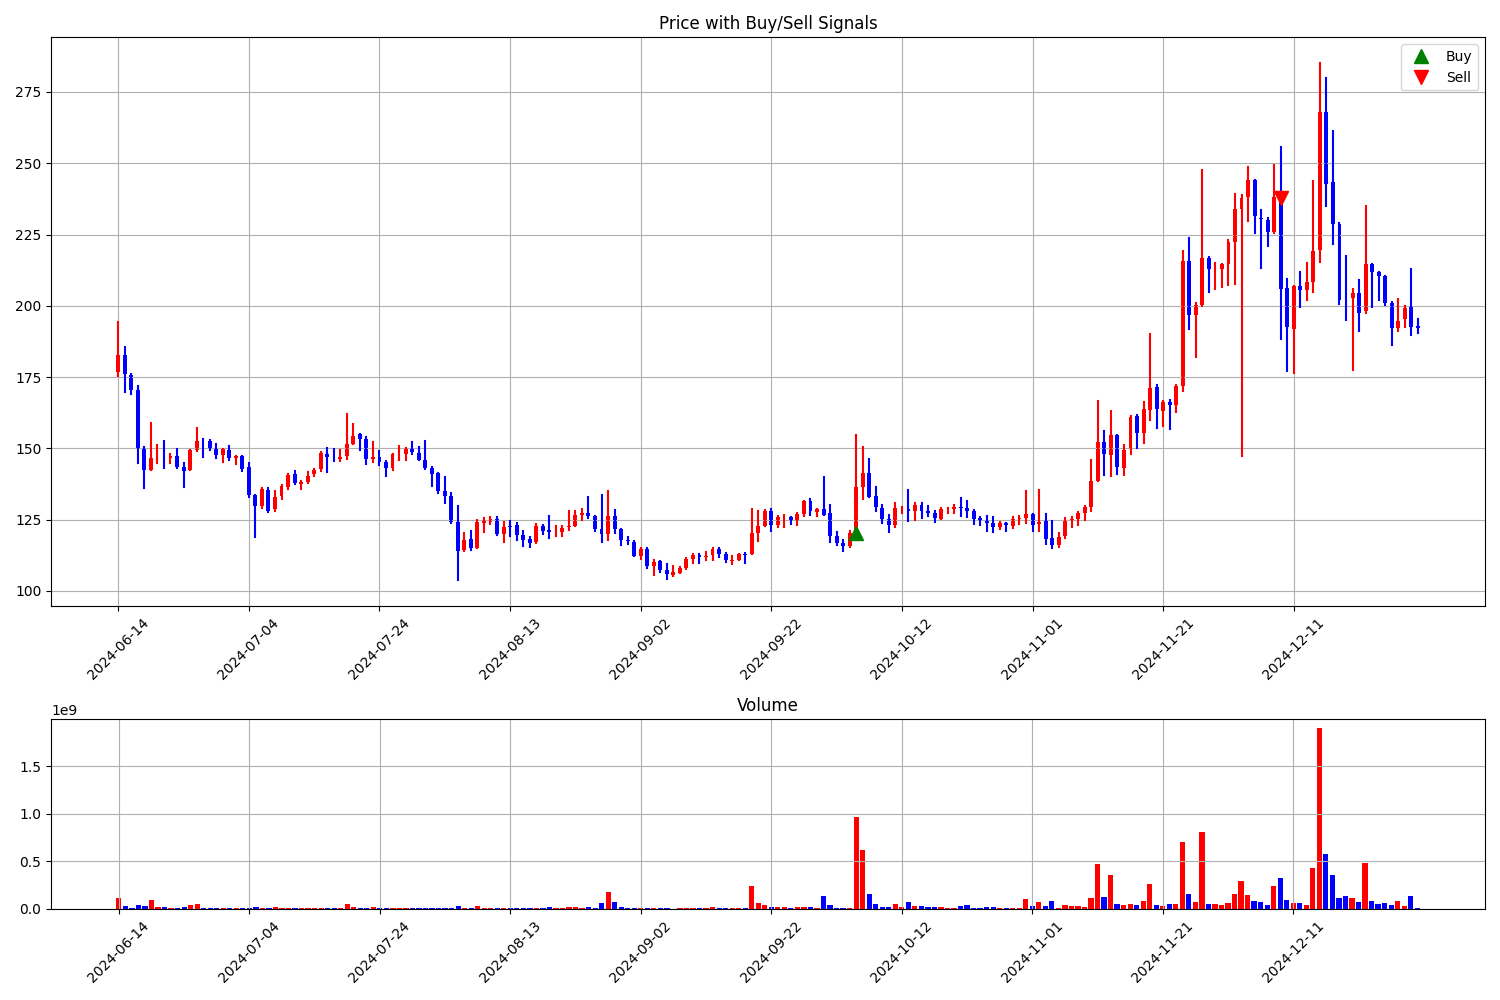
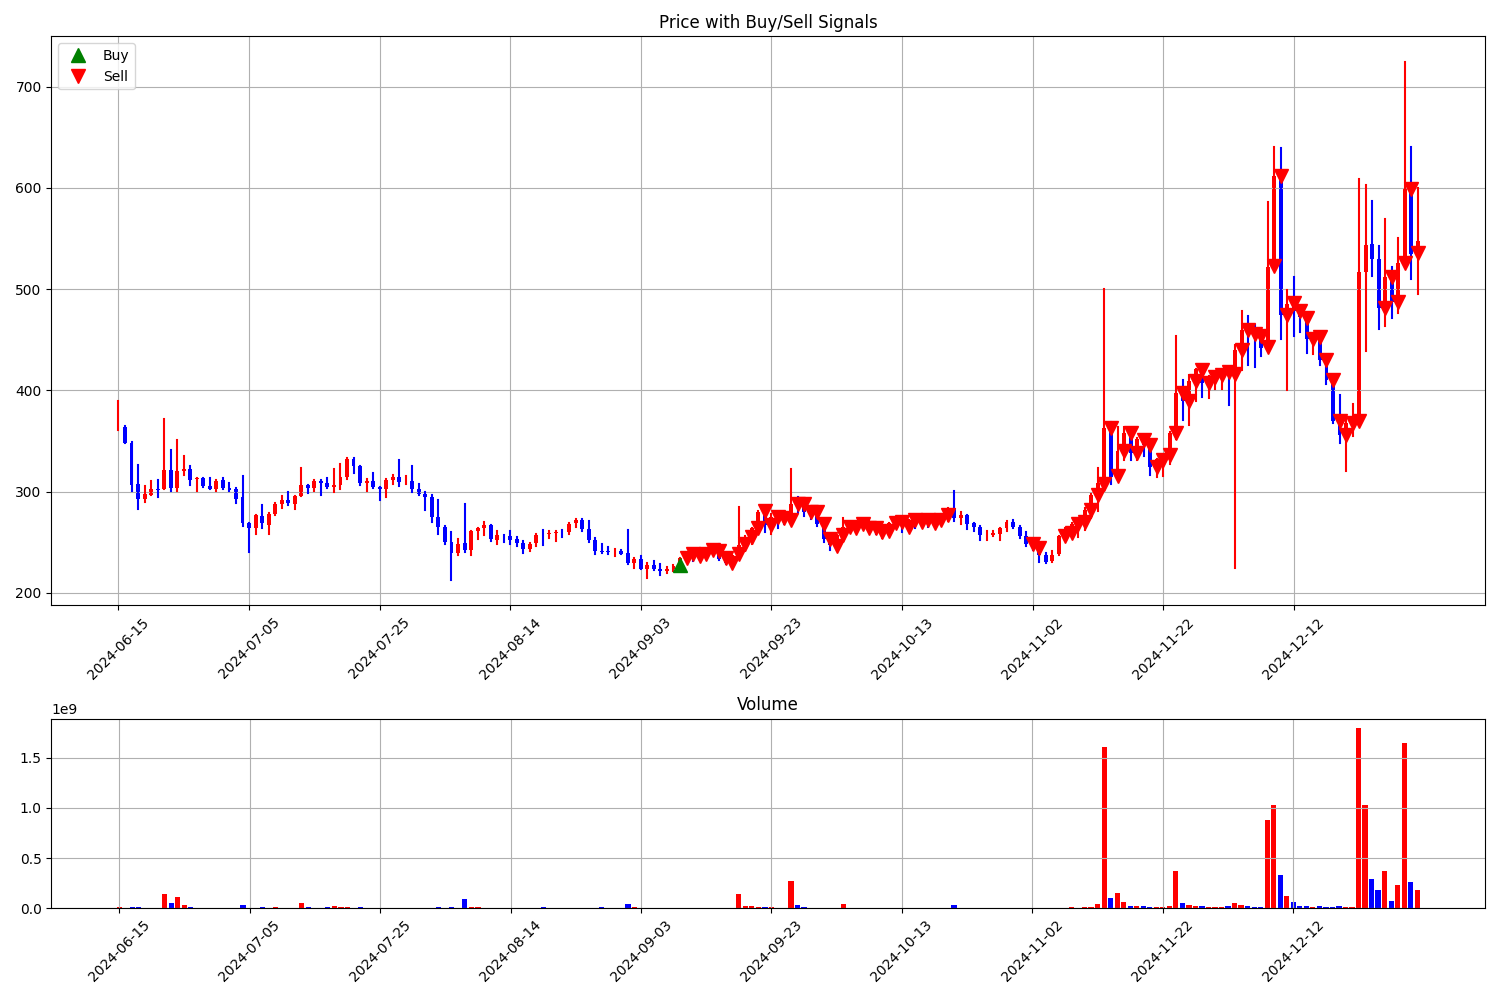
feat: working..

diff --git a/src/strategy/strategies/profitable_strategy.py b/src/strategy/strategies/profitable_strategy.py
@@ -6,7 +6,15 @@ import numpy as np
 import talib
 
 from src.models.types.types import TradingSignal
-from src.strategy.strategies.helpers.custom_percent_sizer import StrategyBasePercent
+from src.strategy.strategies.datas.data import (
+    EntryPosition,
+    MarketData,
+    RiskParams,
+    RiskPosition,
+    TradingAnalyzeData,
+    TradingPercent,
+)
+from src.strategy.strategies.risk.risk_manager import RiskManager
 
 """
 Profitable Strategy 조건
@@ -42,23 +50,8 @@ class TradingParameters:
     stoch_overbought: int = 80  # 과매수 기준값
 
     # 손절/익절 파라미터
-    stop_loss_pct: float = 2.0  # 진입가 기준 손절 비율 (%)
-    take_profit_pct: float = 4.0  # 진입가 기준 익절 비율 (%)
-    trailing_stop_pct: float = 1.5  # 최고가 대비 하락 시 청산 비율 (%)
-
-
-@dataclass
-class MarketData:
-    close: np.ndarray
-    high: np.ndarray
-    low: np.ndarray
-
-
-@dataclass
-class TradingAnalyzeData:
-    signal: TradingSignal
-    reason: str
-    current_price: float
+    stop_loss_pct: float = 3.0  # 진입가 기준 손절 비율 (%)
+    take_profit_pct: float = 5.0  # 진입가 기준 익절 비율 (%)
 
 
 # 기술적 지표 계산을 위한 프로토콜
@@ -116,7 +109,11 @@ class TALibIndicator(TechnicalIndicator):
 
 # 전략 분석을 위한 프로토콜
 class StrategyAnalyze(Protocol):
-    def analyze(self, market_data: MarketData) -> Tuple[List[str], List[str]]: ...
+    def analyze(
+        self,
+        market_data: MarketData,
+        trading_percent: TradingPercent,
+    ) -> TradingAnalyzeData | None: ...
 
 
 class TradingStrategy(StrategyAnalyze):
@@ -126,9 +123,12 @@ class TradingStrategy(StrategyAnalyze):
         self.macd_prev = None
         self.macdsignal_prev = None
 
-    def analyze(self, market_data: MarketData) -> TradingAnalyzeData | None:
-        check_index = -1  # -1 인덱스는 배열의 마지막 요소
-        current_price = market_data.close[check_index]  # 종가 데이터
+    def analyze(
+        self,
+        market_data: MarketData,
+        trading_percent: Optional[TradingPercent] = None,
+    ) -> TradingAnalyzeData | None:
+        check_index = -1  # 직전 봉의 데이터 인덱스
 
         # 기술적 지표 계산
         rsi = self.indicator.calculate_rsi(market_data.close, self.params.rsi_period)
@@ -223,8 +223,8 @@ class TradingStrategy(StrategyAnalyze):
             )
             return TradingAnalyzeData(
                 signal=TradingSignal.BUY,
-                reasons=reason,
-                current_price=current_price,
+                reason=reason,
+                trading_percent=trading_percent,
             )
 
         if satisfied_sell_conditions and len(satisfied_sell_conditions) >= 3:
@@ -235,13 +235,13 @@ class TradingStrategy(StrategyAnalyze):
             return TradingAnalyzeData(
                 signal=TradingSignal.SELL,
                 reason=reason,
-                current_price=current_price,
+                trading_percent=trading_percent,
             )
 
         return TradingAnalyzeData(
             signal=TradingSignal.HOLD,
             reason=None,
-            current_price=current_price,
+            trading_percent=trading_percent,
         )
 
 
@@ -264,7 +264,10 @@ class BackTestingProfitableStrategy(bt.Strategy):
             low=np.array(self.data_low.get(size=50)),
         )
 
-        trading_analyze_data = self.trading_strategy.analyze(market_data)
+        trading_analyze_data = self.trading_strategy.analyze(
+            market_data,
+            trading_percent=None,
+        )
 
         if trading_analyze_data is None:
             return
@@ -272,11 +275,39 @@ class BackTestingProfitableStrategy(bt.Strategy):
         signal = trading_analyze_data.signal
         reason = trading_analyze_data.reason
 
+        # 포지션이 없고 매수 신호가 발생하면 매수
         if not self.position and signal == TradingSignal.BUY:
-            self.order = self.buy()
+            self.order = self.buy(
+                exectype=bt.Order.Market,
+            )
             self.log(reason)
-        elif self.position and signal == TradingSignal.SELL:
-            self.order = self.sell()
+
+        # 손절/익절 체크
+        if self.position:
+            risk_manager = RiskManager(
+                risk_params=RiskParams(
+                    stop_loss_pct=self.trading_strategy.params.stop_loss_pct,
+                    take_profit_pct=self.trading_strategy.params.take_profit_pct,
+                )
+            )
+            risk_position = risk_manager.check_exit_conditions(
+                current_position=EntryPosition(
+                    entry_price=self.position.price,
+                ),
+                market_data=market_data,
+            )
+            if risk_position.selling:
+                self.order = self.sell(
+                    exectype=bt.Order.Market,
+                )
+                self.log(risk_position.reason)
+                return
+
+        # 포지션이 있고 매도 신호가 발생하면 매도
+        if self.position and signal == TradingSignal.SELL:
+            self.order = self.sell(
+                exectype=bt.Order.Market,
+            )
             self.log(reason)
 
     def notify_order(self, order):
@@ -286,11 +317,11 @@ class BackTestingProfitableStrategy(bt.Strategy):
         if order.status in [order.Completed]:
             if order.isbuy():
                 self.log(
-                    f"매수 체결: 가격: {order.executed.price}, 수량: {order.executed.size}"
+                    f"매수 체결: 가격 {order.executed.price:.2f}, 수량 {order.executed.size}"
                 )
             else:
                 self.log(
-                    f"매도 체결: 가격: {order.executed.price}, 수량: {order.executed.size}"
+                    f"매도 체결: 가격 {order.executed.price:.2f}, 수량 {order.executed.size}"
                 )
 
         elif order.status in [order.Canceled, order.Margin, order.Rejected]:
@@ -325,18 +356,22 @@ class RealTimeProfitableStrategy:
 
     def analyze_market(
         self,
-        current_index: int = None,
-        buy_percent: float = StrategyBasePercent.buy_percent,
-        sell_percent: float = StrategyBasePercent.sell_percent,
+        current_index: Optional[int] = None,
+        trading_percent: Optional[TradingPercent] = None,
+        entry_position: Optional[EntryPosition] = None,
     ) -> TradingAnalyzeData | None:
         """
         시장 데이터 분석 및 매매 신호 생성
 
         Args:
             current_index: 현재 분석할 시점의 인덱스
+            trading_percent: 매매 비율 설정
         """
         if current_index is None:
             current_index = len(self.df) - 1
+
+        if trading_percent is None:
+            trading_percent = TradingPercent()
 
         # 최근 50개 데이터만 슬라이싱
         start_idx = max(0, current_index - self.window_size + 1)
@@ -348,4 +383,29 @@ class RealTimeProfitableStrategy:
             low=self.df["low"].values[start_idx:end_idx],
         )
 
-        return self.trading_strategy.analyze(market_data)
+        trading_analyze_data = self.trading_strategy.analyze(
+            market_data,
+            trading_percent=trading_percent,
+        )
+
+        # 손절/익절 체크
+        if entry_position:
+            risk_manager = RiskManager(
+                risk_params=RiskParams(
+                    stop_loss_pct=self.trading_strategy.params.stop_loss_pct,
+                    take_profit_pct=self.trading_strategy.params.take_profit_pct,
+                )
+            )
+            risk_position = risk_manager.check_exit_conditions(
+                current_position=entry_position,
+                market_data=market_data,
+            )
+            if risk_position.selling:
+                trading_percent.sell_percent = risk_position.price
+                return TradingAnalyzeData(
+                    signal=TradingSignal.SELL,
+                    reason=risk_position.reason,
+                    trading_percent=trading_percent,
+                )
+
+        return trading_analyze_data

diff --git a/src/strategy/strategies/risk/risk_manager.py b/src/strategy/strategies/risk/risk_manager.py
@@ -1,0 +1,59 @@
+from typing import Optional
+from src.strategy.strategies.datas.data import (
+    EntryPosition,
+    MarketData,
+    RiskParams,
+    RiskPosition,
+)
+
+
+class RiskManager:
+    risk_params: RiskParams
+
+    def __init__(self, risk_params: RiskParams):
+        self.risk_params = risk_params
+
+    def check_exit_conditions(
+        self,
+        market_data: MarketData,
+        current_position: Optional[EntryPosition],
+    ) -> RiskPosition:
+        """현물 매도 조건 체크 (손절/익절)"""
+
+        if not current_position:
+            return RiskPosition(
+                selling=False,
+                reason="",
+                price=0.0,
+            )
+
+        current_price = market_data.close[0]  # 현재 봉의 데이터
+        entry_price = current_position.entry_price
+
+        # 손절 체크
+        if self.risk_params.stop_loss_pct != 0.0:
+            stop_loss_price = entry_price * (1 - self.risk_params.stop_loss_pct / 100)
+            if current_price <= stop_loss_price:
+                return RiskPosition(
+                    selling=True,
+                    reason=f"손절 매도: 가격 {current_price:.2f}, 진입가 {entry_price:.2f} 대비 {self.risk_params.stop_loss_pct}% 하락",
+                    price=stop_loss_price,
+                )
+
+        # 익절 체크
+        if self.risk_params.take_profit_pct != 0.0:
+            take_profit_price = entry_price * (
+                1 + self.risk_params.take_profit_pct / 100
+            )
+            if current_price >= take_profit_price:
+                return RiskPosition(
+                    selling=True,
+                    reason=f"익절 매도: 가격 {current_price:.2f}, 진입가 {entry_price:.2f} 대비 {self.risk_params.take_profit_pct}% 상승",
+                    price=take_profit_price,
+                )
+
+        return RiskPosition(
+            selling=False,
+            reason="",
+            price=0.0,
+        )

diff --git a/src/strategy/backtesting.py b/src/strategy/backtesting.py
@@ -3,6 +3,7 @@ import backtrader as bt
 
 from src.models.backtesting_dto import BackTestingDto
 from src.strategy.analyzer.analyzer import BackTestingAnalyzer
+from src.strategy.strategies.datas.data import TradingPercent
 from src.strategy.strategies.helpers.custom_pandas_data import CustomPandasData
 from src.strategy.strategies.helpers.custom_percent_sizer import CustomPercentSizer
 from src.strategy.strategies.profitable_strategy import BackTestingProfitableStrategy
@@ -39,10 +40,14 @@ class Backtesting:
             self.cerebro.broker.setcommission(commission=initial_commission)
 
             # Percent Sizer
-            self.cerebro.addsizer(
-                CustomPercentSizer,
+            trading_percent = TradingPercent(
                 buy_percent=30,
                 sell_percent=50,
+            )
+            self.cerebro.addsizer(
+                CustomPercentSizer,
+                buy_percent=trading_percent.buy_percent,
+                sell_percent=trading_percent.sell_percent,
             )
 
             # 거래량 관련 설정 추가

diff --git a/src/strategy/strategies/datas/data.py b/src/strategy/strategies/datas/data.py
@@ -1,0 +1,48 @@
+import numpy as np
+
+from dataclasses import dataclass
+
+from src.models.types.types import TradingSignal
+
+
+@dataclass
+class MarketData:
+    close: np.ndarray
+    high: np.ndarray
+    low: np.ndarray
+
+
+@dataclass
+class RiskParams:
+    # 손절/익절 파라미터
+    stop_loss_pct: float  # 진입가 기준 손절 비율 (%)
+    take_profit_pct: float  # 진입가 기준 익절 비율 (%)
+
+
+@dataclass
+class RiskPosition:
+    selling: bool
+    reason: str
+    price: float
+
+
+@dataclass
+class EntryPosition:
+    entry_price: float
+
+
+@dataclass
+class TradingPercent:
+    buy_percent: float  # 매수시 사용할 퍼센트
+    sell_percent: float  # 매도시 사용할 퍼센트
+
+    def __init__(self, buy_percent: float = 10, sell_percent: float = 20):
+        self.buy_percent = buy_percent
+        self.sell_percent = sell_percent
+
+
+@dataclass
+class TradingAnalyzeData:
+    signal: TradingSignal
+    reason: str
+    trading_percent: TradingPercent  # 매매 비율

diff --git a/src/strategy/strategies/helpers/custom_percent_sizer.py b/src/strategy/strategies/helpers/custom_percent_sizer.py
@@ -1,15 +1,17 @@
 import backtrader as bt
 
-
-class StrategyBasePercent:
-    buy_percent = 10  # 매수시 사용할 퍼센트
-    sell_percent = 20  # 매도시 사용할 퍼센트
+from src.strategy.strategies.datas.data import TradingPercent
 
 
 class CustomPercentSizer(bt.Sizer):
+    percent = TradingPercent(
+        buy_percent=10,
+        sell_percent=20,
+    )
+
     params = (
-        ("buy_percent", StrategyBasePercent.buy_percent),  # 매수시 사용할 퍼센트
-        ("sell_percent", StrategyBasePercent.sell_percent),  # 매도시 사용할 퍼센트
+        ("buy_percent", percent.buy_percent),  # 매수시 사용할 퍼센트
+        ("sell_percent", percent.sell_percent),  # 매도시 사용할 퍼센트
     )
 
     def _getsizing(self, comminfo, cash, data, isbuy):

diff --git a/src/strategy/analyzer/analyzer.py b/src/strategy/analyzer/analyzer.py
@@ -114,7 +114,8 @@ class BackTestingAnalyzer:
         transaction_dtos = self.get_transactions(transactions)
 
         # 결과 그래프 출력
-        # self.cerebro.plot(style="candle", volume=True)
+        self.cerebro.plot(style="candle", volume=True)
+
         file_path = CandleGraphChart.save_fig(
             transactions,
             df=self.df,
